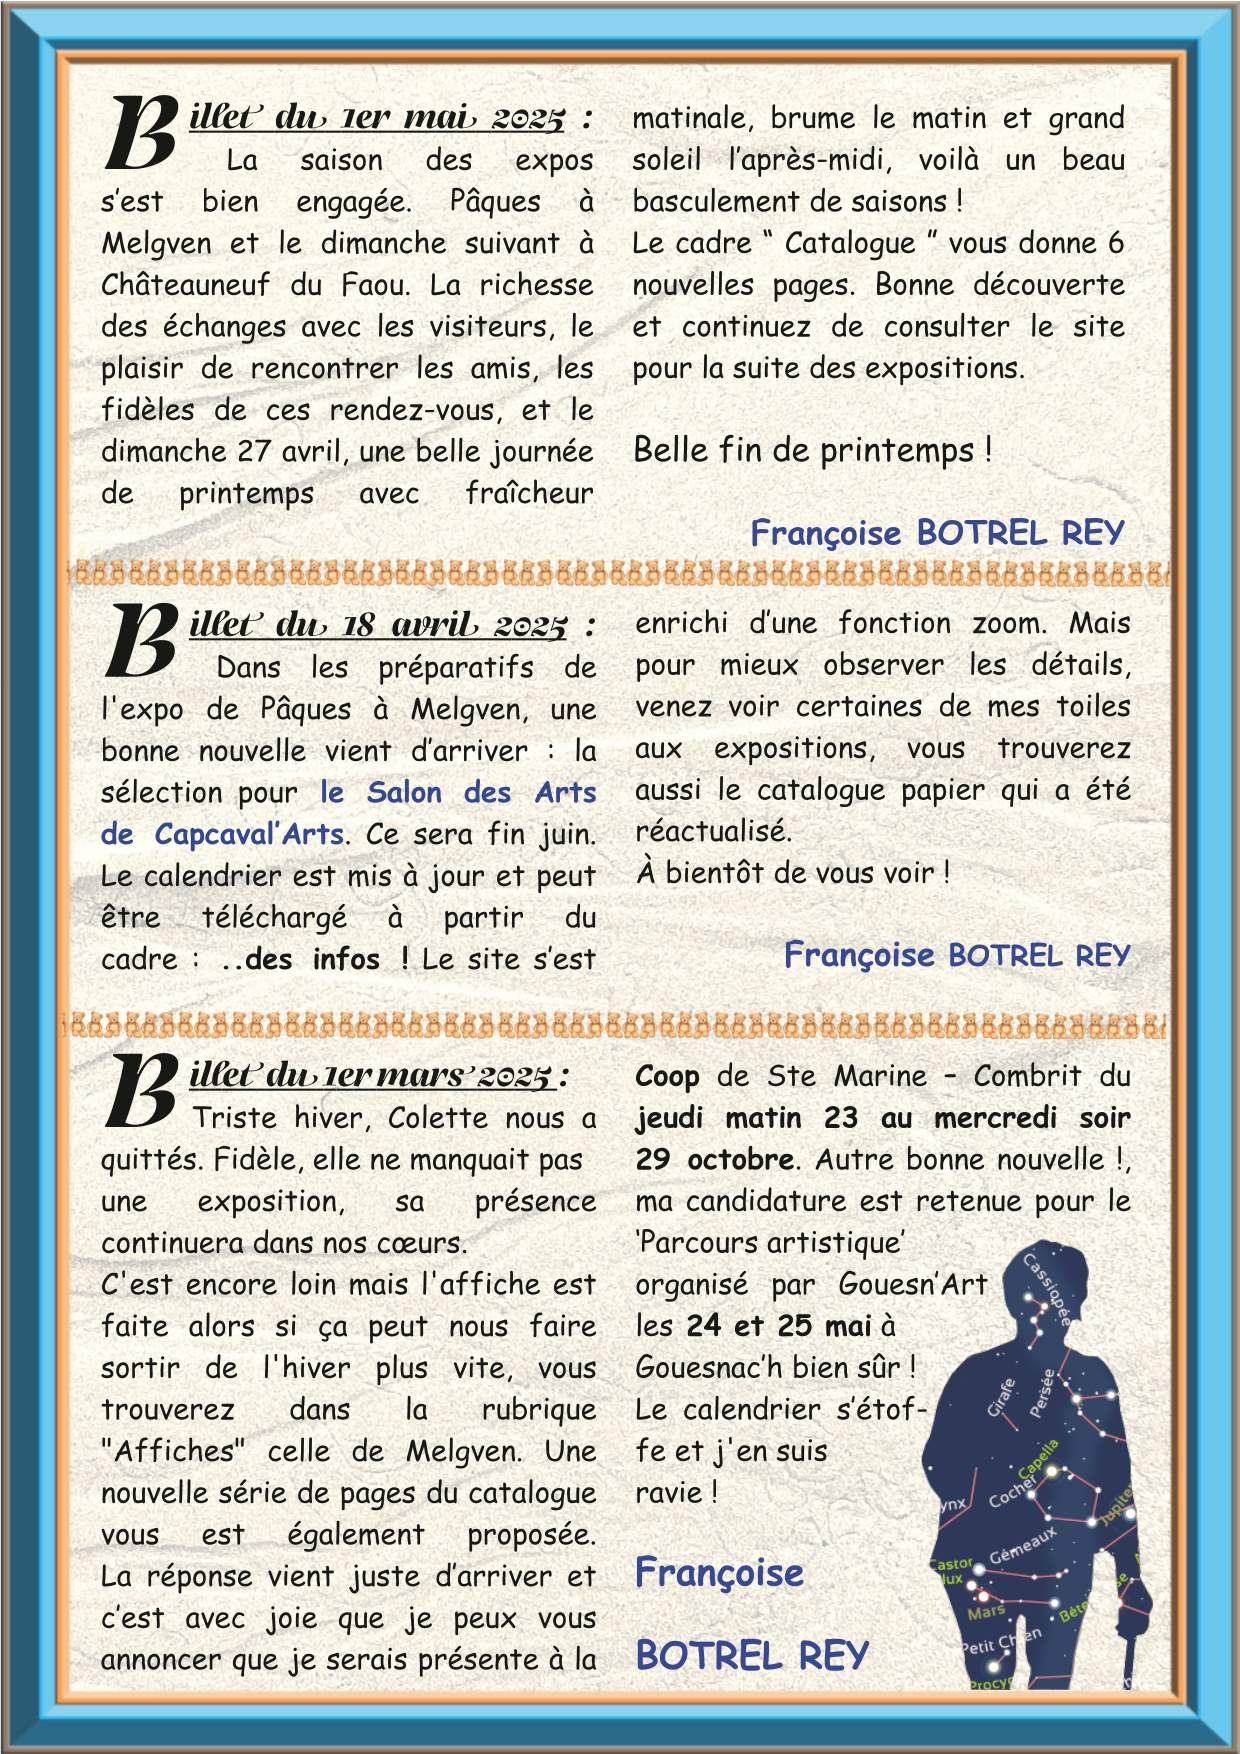
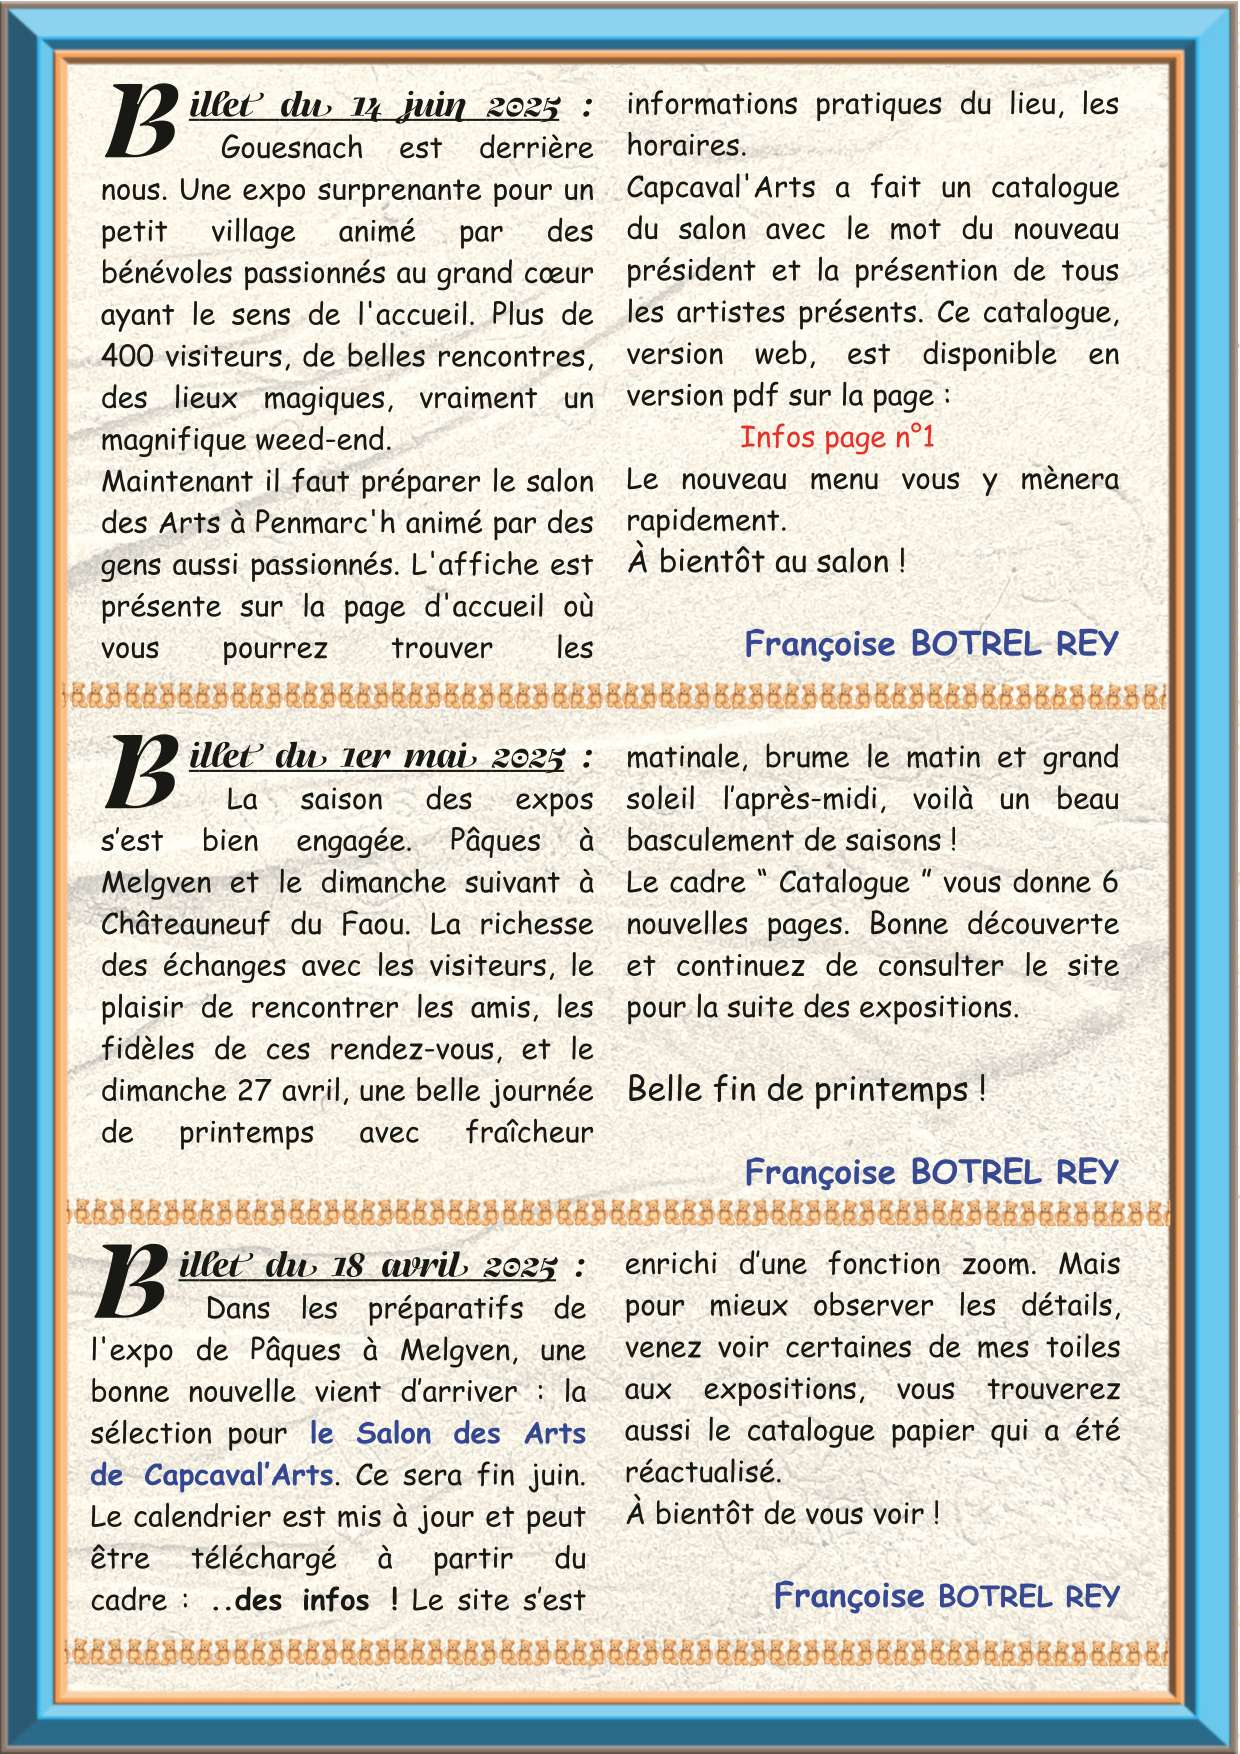
Billet du 14 juin

diff --git a/content/bienvenue/_index.md b/content/bienvenue/_index.md
@@ -12,13 +12,13 @@ resources:
 - src: "/bienvenue/bienvenue_intro.jpg"
   weight: 10
 - src: "/bienvenue/photos_gouesnach.jpg"
-  weight: 50 
+  weight: 75 
 - src: "/bienvenue/billet_2.jpg"
   weight: 60
 - src: "/bienvenue/billet_3.jpg"
   weight: 70
 - src: "/bienvenue/photos_temporaires.jpg"
-  weight: 75
+  weight: 77
 - src: "/bienvenue/billet_1.jpg"
   weight: 80
 - src: "/bienvenue/photos_1.jpg"
